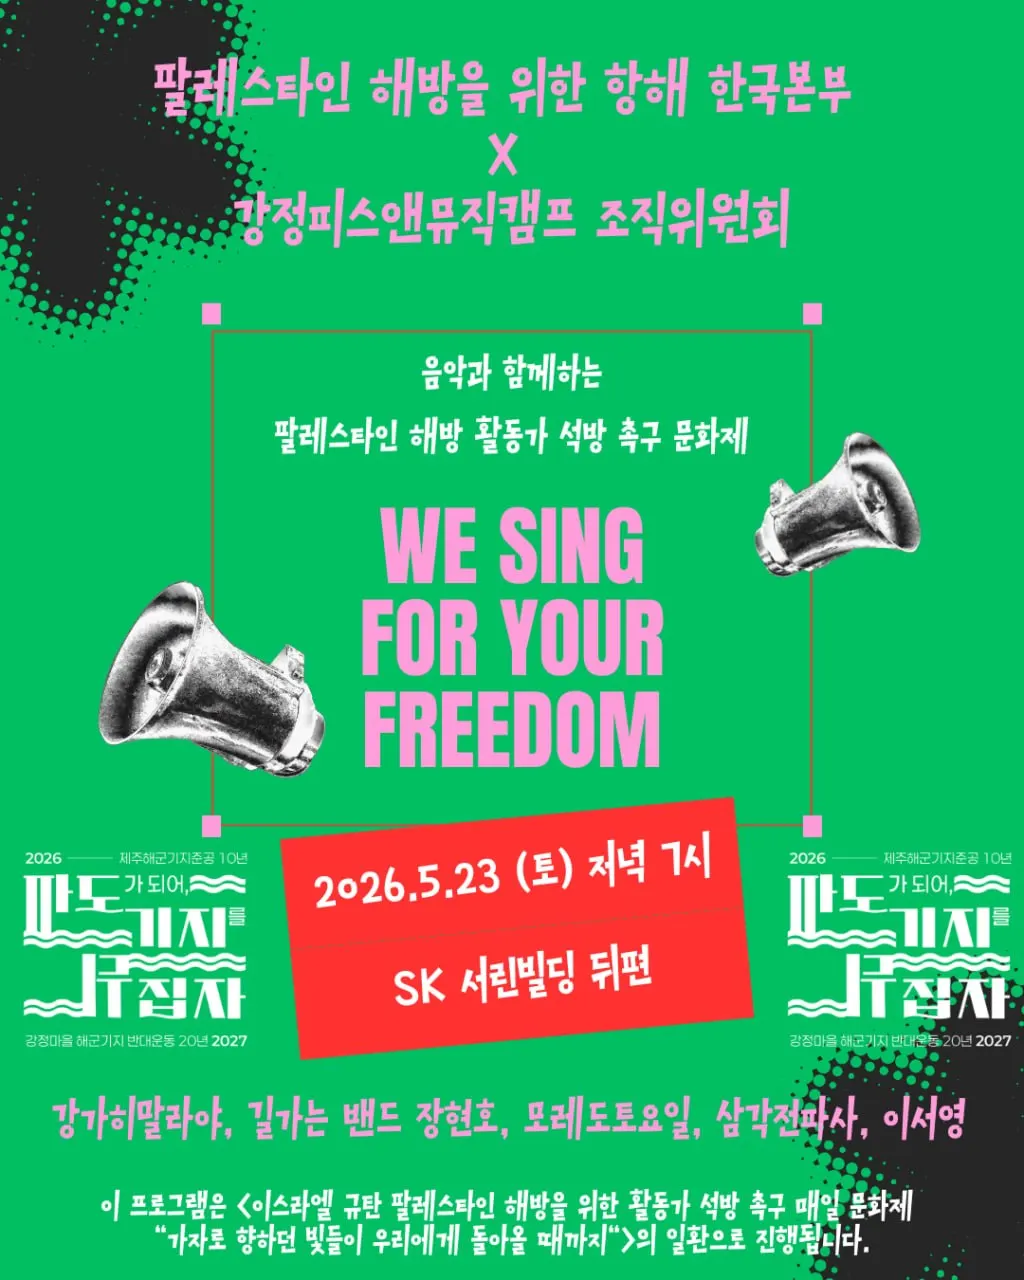
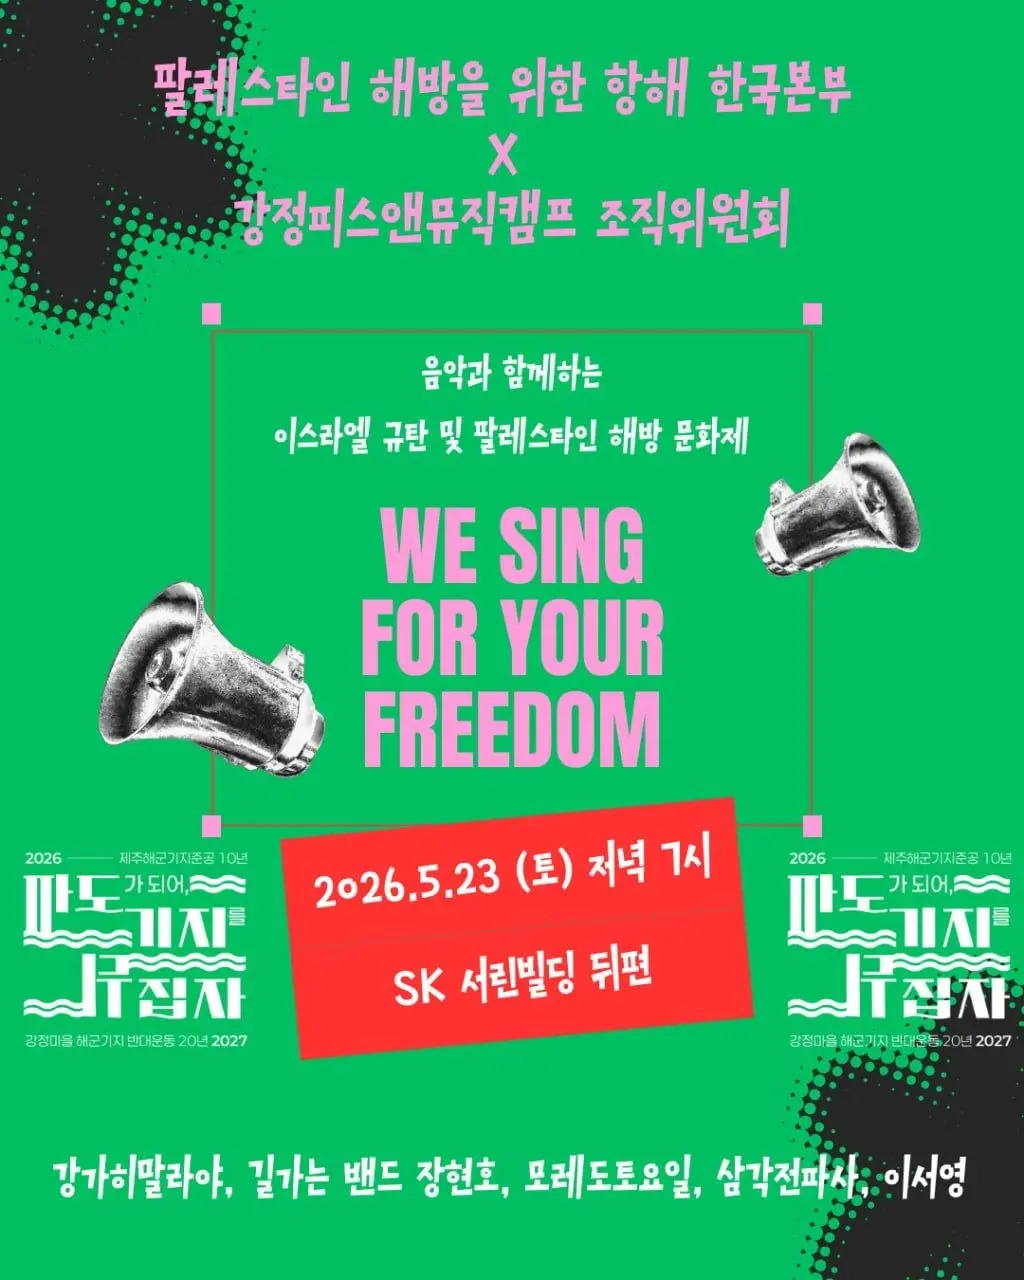
fix(solidarity): 활동가 석방 후 행사 내용 이스라엘 규탄·팔레스타인 해방 문화제로 전환
해초·승준·동현 활동가 전원 석방 — 기존 '석방 촉구' 문구를
'이스라엘 규탄 및 팔레스타인 해방 문화제'로 전환.
포스터·제목·본문 2단락·note 초기화·page_desc 13개 언어 교체.

diff --git a/src/data/solidarity.ts b/src/data/solidarity.ts
@@ -46,7 +46,7 @@ const eventStructs: SolidarityEventStruct[] = [
     id: 'event-sail',
     keyPrefix: 'solidarity.event_sail',
     poster: '/images-webp/solidarity/we-are-sail-for-your-freedom.webp',
-    paraCount: 4,
+    paraCount: 2,
     lineup: [
       { name: '강가히말라야', musicianId: 14 },
       { name: '길가는밴드 장현호', musicianId: 15 },